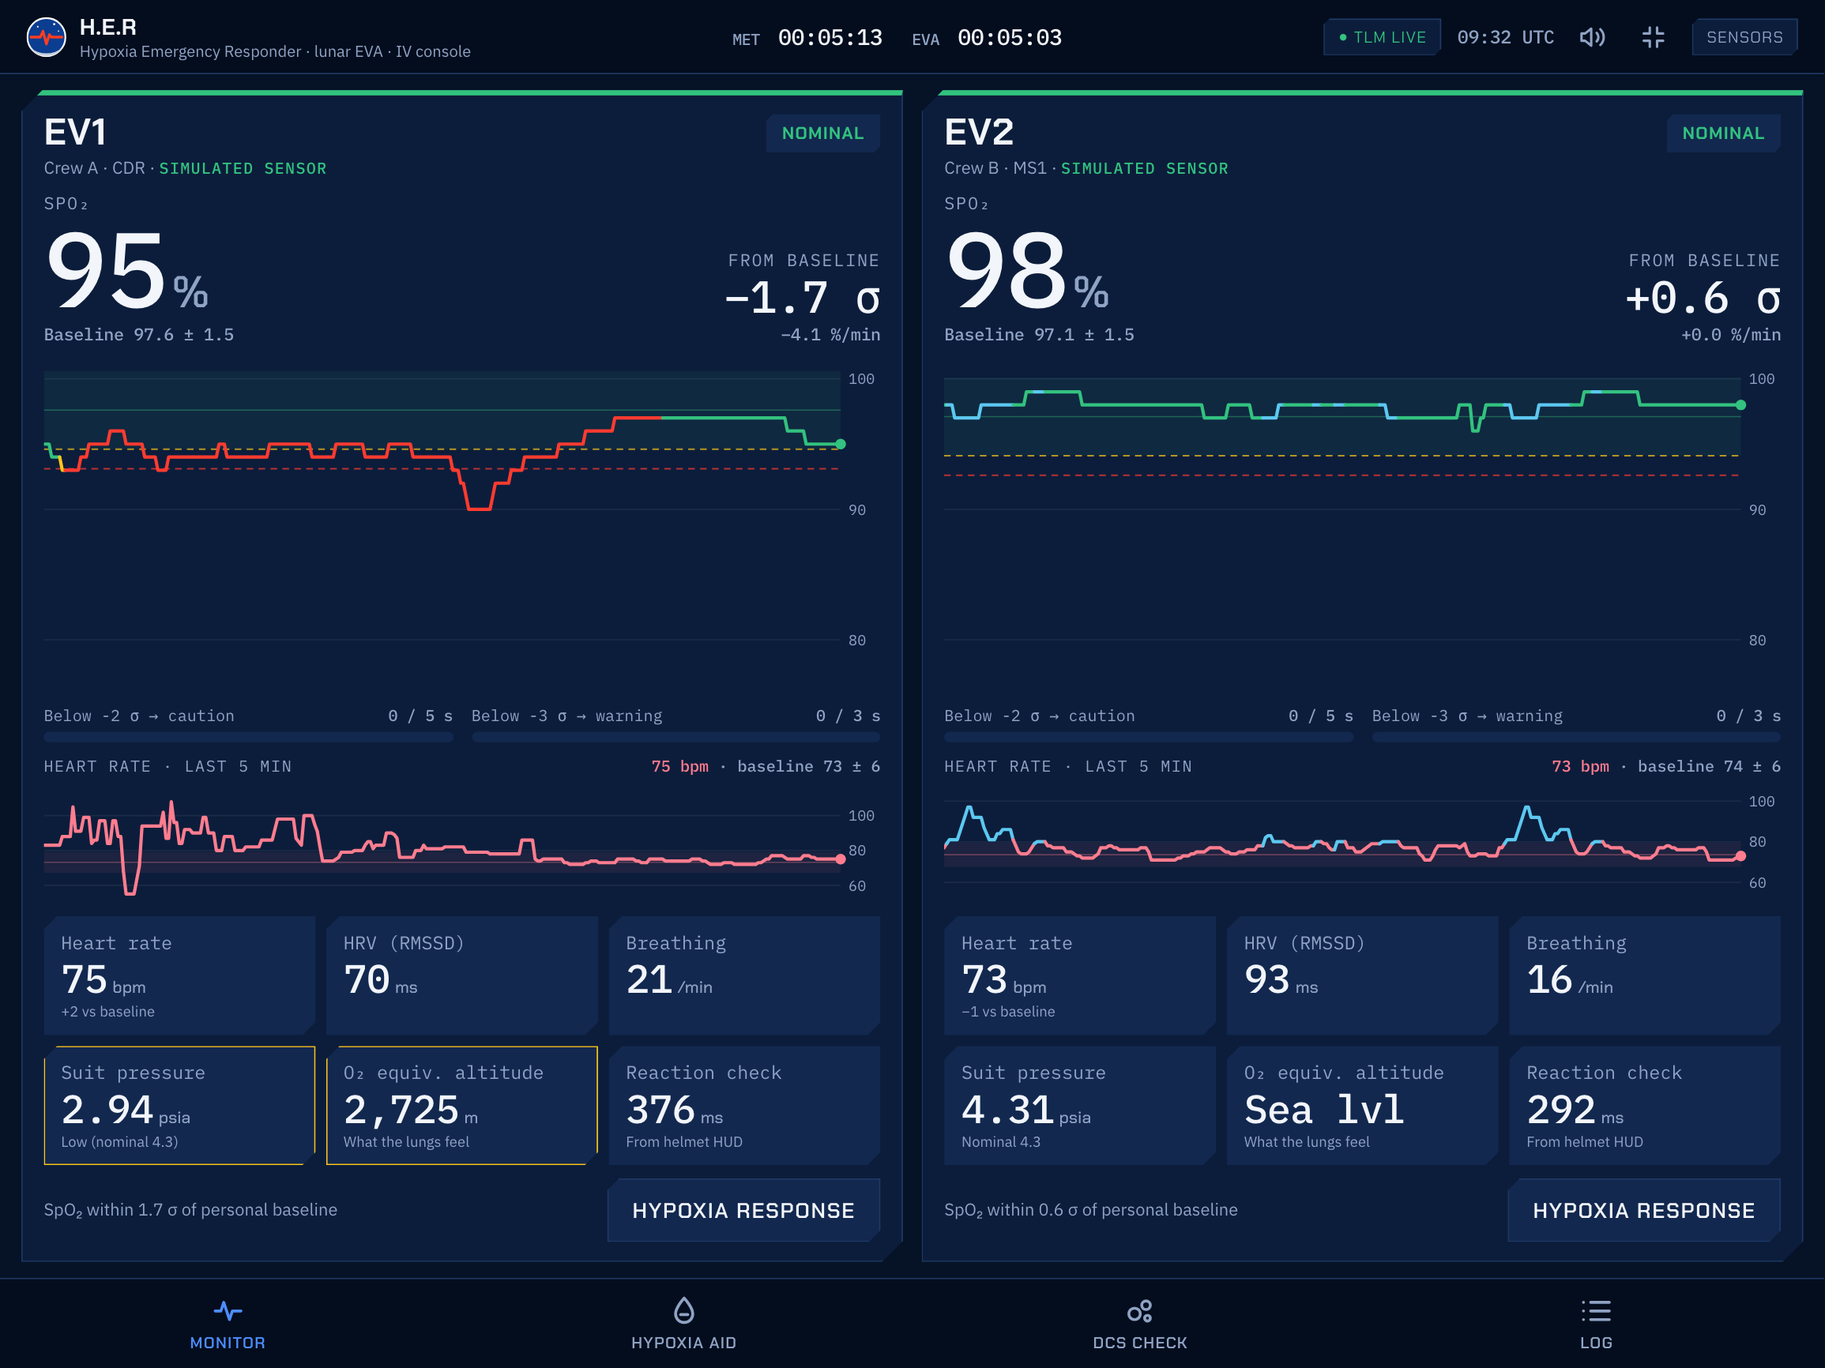
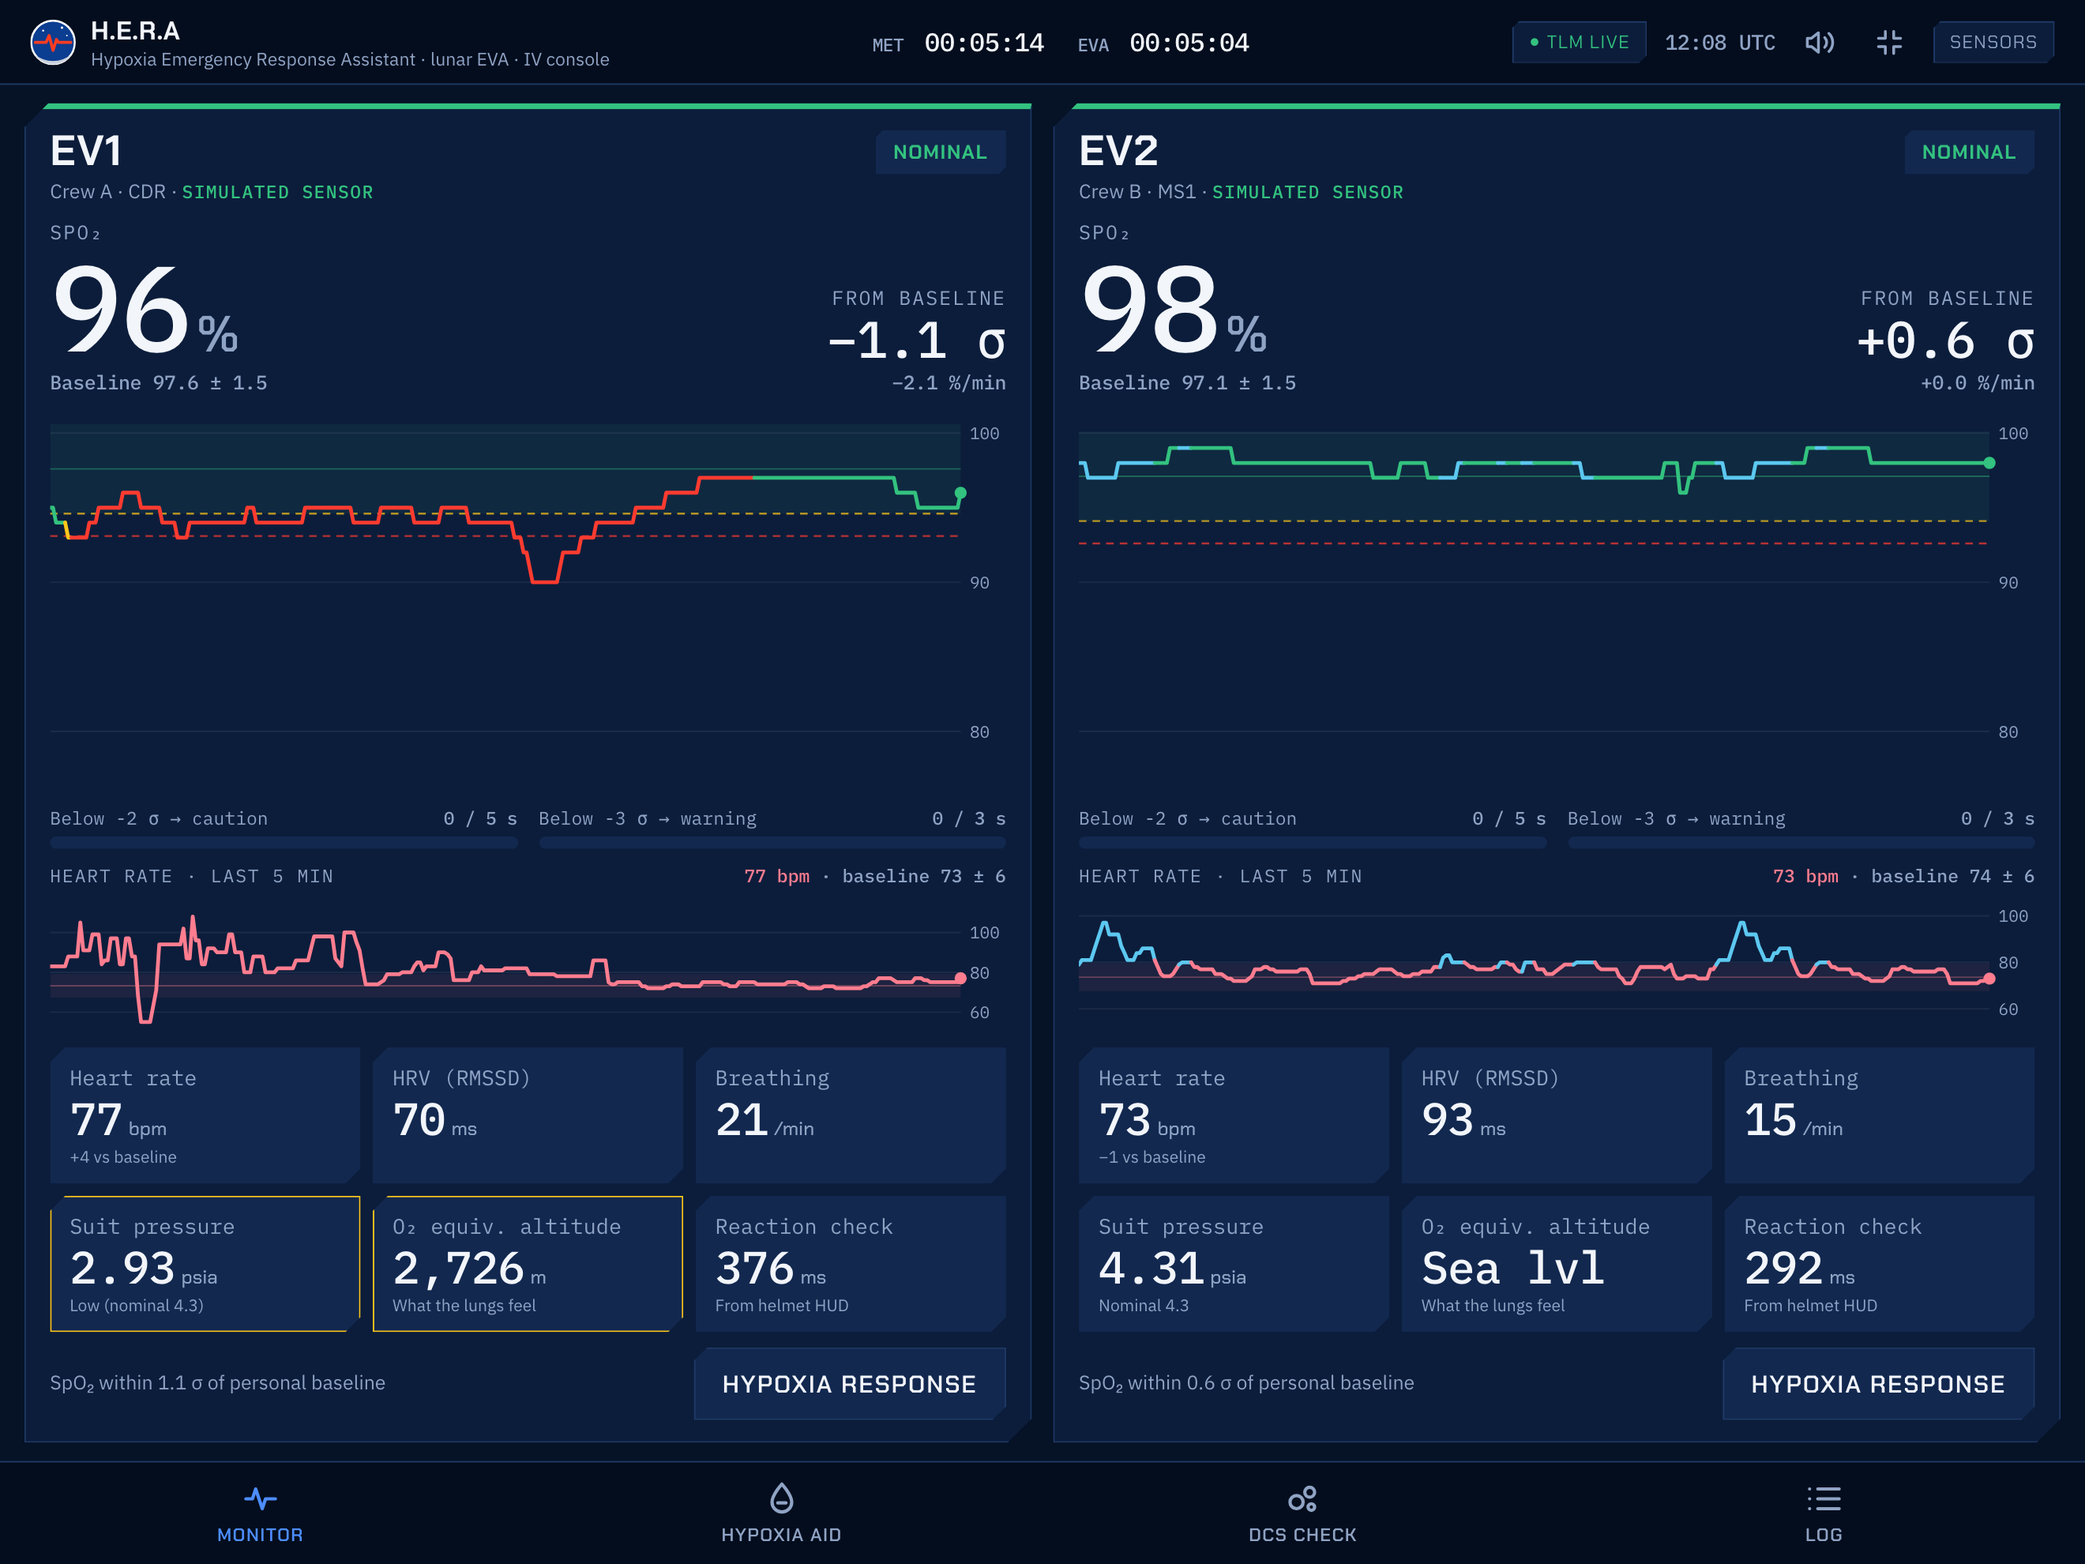
Milestones 3–4: live preview links to Aegis and H.E.R.A; rename H.E.R to H.E.R.A

diff --git a/content/site.ts b/content/site.ts
@@ -13,11 +13,11 @@ export type Spec = { label: string; value: string; unit?: string };
 // ---------- Site-wide ----------
 
 export const site = {
-  title: "H.E.R: Hypoxia Emergency Responder",
+  title: "H.E.R.A: Hypoxia Emergency Response Assistant",
   /** Visually hidden page heading */
-  heading: "H.E.R: Hypoxia Emergency Responder",
+  heading: "H.E.R.A: Hypoxia Emergency Response Assistant",
   description:
-    "H.E.R detects hypoxia during spacewalks: a behind-the-ear sensor, the Aegis helmet HUD and the H.E.R.A crew console alert the crew and guide first aid.",
+    "H.E.R.A: Hypoxia Emergency Response Assistant. A behind-the-ear sensor, the Aegis helmet HUD and the H.E.R.A crew console detect hypoxia during spacewalks, alert the crew and guide first aid.",
 };
 
 /** Small interface strings used across components */
@@ -143,9 +143,9 @@ export const productShowcase = {
       kind: "tablet",
       image: {
         src: "/images/hera-console.png",
-        width: 2310,
-        height: 1732,
-        alt: "iPad Pro showing the H.E.R crew console: live SpO₂ and heart-rate trends over the last five minutes for two spacewalkers",
+        width: 2640,
+        height: 1980,
+        alt: "iPad Pro showing the H.E.R.A crew console: live SpO₂ and heart-rate trends over the last five minutes for two spacewalkers",
       },
       device: {
         label: "THE ANCHOR",
@@ -154,7 +154,7 @@ export const productShowcase = {
       },
       anchor: {
         label: "THE APP",
-        title: "H.E.R crew console",
+        title: "H.E.R.A crew console",
         body: "Installs on iPad as a full-screen, offline app, with every incident and response saved to its log.",
         link: { label: "Launch the demo →", href: "https://crew-health-tablet.vercel.app" },
       },
@@ -269,15 +269,18 @@ export type Milestone = {
   /** null shows an ImageSlot named `slot` until the image exists */
   image: MilestoneImage | null;
   slot: string;
+  /** Live app: the image becomes a browser-window preview card linking to `url`, plus a "Launch <label> ↗" text link */
+  link?: { url: string; label: string };
 };
 
 /**
  * Milestones section below the product carousel. Entries alternate image-left / image-right.
  * To add an image: put it in public/images/, then set `image` (with `zoomable: true` for click-to-enlarge).
+ * With `link`, the image is shown as a preview card that opens the live app in a new tab.
  */
 export const milestones = {
   eyebrow: "MILESTONES",
-  title: "[PLACEHOLDER: section title, e.g. Building H.E.R]",
+  title: "[PLACEHOLDER: section title, e.g. Building H.E.R.A]",
   items: [
     {
       number: "01",
@@ -294,8 +297,34 @@ export const milestones = {
       },
     },
     { number: "02", title: "[PLACEHOLDER: Milestone 2 title]", caption: "[PLACEHOLDER: caption]", slot: "milestone-2.png", image: null },
-    { number: "03", title: "[PLACEHOLDER: Milestone 3 title]", caption: "[PLACEHOLDER: caption]", slot: "milestone-3.png", image: null },
-    { number: "04", title: "[PLACEHOLDER: Milestone 4 title]", caption: "[PLACEHOLDER: caption]", slot: "milestone-4.png", image: null },
+    {
+      number: "03",
+      title: "Aegis UI",
+      caption: "[PLACEHOLDER: 1–2 sentence caption about building the Aegis helmet HUD]",
+      slot: "milestone-3-aegis-preview.webp",
+      image: {
+        src: "/images/milestone-3-aegis-preview.webp",
+        width: 2880,
+        height: 1800,
+        alt: "Preview of the Aegis helmet HUD: vitals at the edges of view over a lunar landscape",
+        zoomable: false,
+      },
+      link: { url: "https://astronaut-eva-hud.vercel.app", label: "Aegis UI" },
+    },
+    {
+      number: "04",
+      title: "H.E.R.A UI",
+      caption: "[PLACEHOLDER: 1–2 sentence caption about building the H.E.R.A crew console]",
+      slot: "milestone-4-hera-preview.webp",
+      image: {
+        src: "/images/milestone-4-hera-preview.webp",
+        width: 2880,
+        height: 1800,
+        alt: "Preview of the H.E.R.A crew console: live SpO₂ and heart-rate trends for two spacewalkers",
+        zoomable: false,
+      },
+      link: { url: "https://crew-health-tablet.vercel.app", label: "H.E.R.A UI" },
+    },
   ] as Milestone[],
 };
 
@@ -308,4 +337,11 @@ export const lightbox = {
   escHint: "Esc to close",
   hintMouse: "Click to enlarge",
   hintTouch: "Tap to enlarge",
+};
+
+/** Strings for the live-app preview cards */
+export const linkPreview = {
+  chip: "Open live demo ↗",
+  ariaLabel: (label: string) => `Open the ${label} live demo (opens in a new tab)`,
+  launch: (label: string) => `Launch ${label} ↗`,
 };

diff --git a/components/LinkPreview.tsx b/components/LinkPreview.tsx
@@ -1,0 +1,50 @@
+import Image from "next/image";
+import { linkPreview, type MilestoneImage } from "@/content/site";
+import { CornerTicks } from "./CornerTicks";
+
+/**
+ * Live-app preview: the screenshot in a slim browser window (dots + address bar with the bare domain), the whole
+ * card one link that opens the app in a new tab. Hover/focus brightens the border, zooms the screenshot slightly and
+ * slides up an "Open live demo" chip (always shown on touch screens).
+ */
+export function LinkPreview({ image, url, label, sizes }: { image: MilestoneImage; url: string; label: string; sizes: string }) {
+  const domain = new URL(url).host;
+  return (
+    <a
+      href={url}
+      target="_blank"
+      rel="noopener noreferrer"
+      aria-label={linkPreview.ariaLabel(label)}
+      className="group relative block border border-gold bg-bg-alt transition-colors duration-200 hover:border-gold-bright focus-visible:border-gold-bright focus-visible:outline-2 focus-visible:outline-gold"
+    >
+      {/* Browser chrome */}
+      <span aria-hidden="true" className="flex items-center gap-3 border-b border-gold/40 px-5 py-2.5 sm:gap-4 sm:px-7">
+        <span className="flex gap-1.5">
+          {[0, 1, 2].map((i) => (
+            <span key={i} className="h-2 w-2 rounded-pill bg-ink-muted/40" />
+          ))}
+        </span>
+        <span className="min-w-0 flex-1 truncate rounded-pill bg-bg px-4 py-1 text-center font-eyebrow text-[0.6875rem] tracking-[0.06em] text-ink-muted">
+          {domain}
+        </span>
+        <span className="hidden w-9 sm:block" />
+      </span>
+
+      {/* Screenshot */}
+      <span className="relative block aspect-[16/10] overflow-hidden">
+        <Image
+          src={image.src}
+          alt={image.alt}
+          fill
+          sizes={sizes}
+          className="object-cover transition-transform duration-500 ease-out group-hover:scale-[1.03] group-focus-visible:scale-[1.03]"
+        />
+        <span className="absolute bottom-3 right-3 z-20 translate-y-2 bg-bg/85 px-2.5 py-1.5 font-eyebrow text-[0.6875rem] font-medium uppercase leading-none tracking-[0.18em] text-gold opacity-0 transition-[opacity,transform] duration-300 ease-out group-hover:translate-y-0 group-hover:opacity-100 group-focus-visible:translate-y-0 group-focus-visible:opacity-100 [@media(hover:none)]:translate-y-0 [@media(hover:none)]:opacity-100">
+          {linkPreview.chip}
+        </span>
+      </span>
+
+      <CornerTicks className="inset-1" />
+    </a>
+  );
+}

diff --git a/components/Milestones.tsx b/components/Milestones.tsx
@@ -1,7 +1,8 @@
-import { milestones } from "@/content/site";
+import { linkPreview, milestones } from "@/content/site";
 import { cn } from "@/lib/cn";
 import { ImageLightbox } from "./ImageLightbox";
 import { ImageSlot } from "./ImageSlot";
+import { LinkPreview } from "./LinkPreview";
 import { Reveal } from "./Reveal";
 import { Section, SectionHeading } from "./Section";
 
@@ -9,7 +10,8 @@ const SIZES = "(min-width: 768px) 58vw, 100vw";
 
 /**
  * Milestones: entries alternate image-left / image-right from md (image above text on mobile).
- * An image with `zoomable` opens in the click-to-enlarge overlay; entries without an image show an ImageSlot.
+ * An entry with `link` shows its image as a live-app preview card; an image with `zoomable` opens in the
+ * click-to-enlarge overlay; entries without an image show an ImageSlot.
  */
 export function Milestones() {
   return (
@@ -21,8 +23,10 @@ export function Milestones() {
           return (
             <Reveal key={m.number}>
               <article className="grid items-center gap-8 md:grid-cols-12 md:gap-12">
-                <div className={cn("md:col-span-7", reverse && "md:order-2")}>
-                  {m.image?.zoomable ? (
+                <div className={cn("min-w-0 md:col-span-7", reverse && "md:order-2")}>
+                  {m.image && m.link ? (
+                    <LinkPreview image={m.image} url={m.link.url} label={m.link.label} sizes={SIZES} />
+                  ) : m.image?.zoomable ? (
                     <ImageLightbox image={m.image} caption={`${m.number} · ${m.title}`} sizes={SIZES} />
                   ) : (
                     <ImageSlot
@@ -40,6 +44,11 @@ export function Milestones() {
                   <p className="mb-4 font-display text-small tabular-nums text-gold">{m.number}</p>
                   <h3 className="text-h3">{m.title}</h3>
                   <p className="mt-4 max-w-prose">{m.caption}</p>
+                  {m.link && (
+                    <a href={m.link.url} target="_blank" rel="noopener noreferrer" className="link-gold mt-6 inline-block">
+                      {linkPreview.launch(m.link.label)}
+                    </a>
+                  )}
                 </div>
               </article>
             </Reveal>

diff --git a/components/CornerTicks.tsx b/components/CornerTicks.tsx
@@ -1,10 +1,10 @@
 import { cn } from "@/lib/cn";
 
-/** Gold crop-mark ticks in the four corners of a card or image. Parent must be `relative`. */
+/** Gold crop-mark ticks in the four corners of a card or image. Parent must be `relative`. `className` replaces the default inset-2. */
 export function CornerTicks({ className }: { className?: string }) {
   const tick = "pointer-events-none absolute h-3 w-3 border-gold";
   return (
-    <span aria-hidden className={cn("pointer-events-none absolute inset-2 z-10", className)}>
+    <span aria-hidden className={cn("pointer-events-none absolute z-10", className ?? "inset-2")}>
       <span className={cn(tick, "left-0 top-0 border-l border-t")} />
       <span className={cn(tick, "right-0 top-0 border-r border-t")} />
       <span className={cn(tick, "bottom-0 left-0 border-b border-l")} />

diff --git a/components/InfoBox.tsx b/components/InfoBox.tsx
@@ -25,7 +25,7 @@ export function InfoBox({ content, className }: { content: InfoBoxContent; class
           href={content.link.href}
           target="_blank"
           rel="noopener noreferrer"
-          className="mt-4 inline-block whitespace-nowrap text-body text-gold underline decoration-gold/60 decoration-1 underline-offset-[6px] transition-colors duration-200 hover:text-gold-bright hover:decoration-gold-bright focus-visible:text-gold-bright"
+          className="link-gold mt-4 inline-block whitespace-nowrap text-body"
         >
           {content.link.label}
         </a>

diff --git a/app/globals.css b/app/globals.css
@@ -29,6 +29,10 @@
   .container-page {
     @apply mx-auto w-full max-w-page px-gutter;
   }
+  /* Gold text link with a hairline underline */
+  .link-gold {
+    @apply text-gold underline decoration-gold/60 decoration-1 underline-offset-[6px] transition-colors duration-200 hover:text-gold-bright hover:decoration-gold-bright focus-visible:text-gold-bright;
+  }
   /* Product carousel slide: grid areas per breakpoint (see components/ProductSlide.tsx).
      Callout labels sit in areas c1–c3; the leader-line side follows from where each label lands. */
   .showcase-grid {

diff --git a/tailwind.config.ts b/tailwind.config.ts
@@ -7,8 +7,8 @@ import type { Config } from "tailwindcss";
 const config: Config = {
   content: ["./app/**/*.{ts,tsx}", "./components/**/*.{ts,tsx}", "./content/**/*.ts"],
   theme: {
-    // Sharp: no rounded corners anywhere
-    borderRadius: { none: "0", DEFAULT: "0" },
+    // Sharp: no rounded corners anywhere, except the browser-chrome dots and address bar on live-app preview cards
+    borderRadius: { none: "0", DEFAULT: "0", pill: "9999px" },
     extend: {
       colors: {
         bg: "#0A0A0B", // main background (never pure black)

diff --git a/images-needed.md b/images-needed.md
@@ -7,12 +7,12 @@ Every image on the site. Slots without a file show a dark placeholder labelled w
 | Slot | Where | Size | What |
 |---|---|---|---|
 | `herb-hardware` ✅ | Product carousel, slide 1 "H.E.R.B" | 1240×1600 cut-out (done) | Transparent cut-out of the prototype hardware, made from `herb-hardware-raw.jpg` by `scripts/cutout_herb.py`. Replace both if the hardware changes, then re-check the callout dot positions. |
-| `hera-console.png` ✅ | Product carousel, slide 2 "H.E.R.A" | 2310×1732 (4:3) | Screenshot of the H.E.R crew console on the angled tablet. Captured from crew-health-tablet.vercel.app at 1155×866 @2×. Replace with any 4:3 capture, then re-check the dot positions. |
+| `hera-console.png` ✅ | Product carousel, slide 2 "H.E.R.A" | 2640×1980 (4:3) | Screenshot of the H.E.R.A crew console on the angled tablet. Captured from crew-health-tablet.vercel.app at 1320×990 @2×. Replace with any 4:3 capture, then re-check the dot positions. |
 | `aegis-hud.png` ✅ | Product carousel, slide 3 "Aegis" | 2310×1732 (4:3) | Capture of the live helmet HUD over the lunar landscape, shown inside the angled visor. Captured from astronaut-eva-hud.vercel.app at 1155×866 @2×. |
 | `milestone-1-schematic.jpg` ✅ | Milestones, entry 01 | 800×647 (KiCad export) | Circuit schematic of the custom PCB. Shown on an off-white panel and zoomable. A higher-resolution export (a larger PNG, or an SVG) would read better when zoomed: add it and set `fullSrc` on milestone 01 so the overlay loads it, or replace `src`, `width` and `height` outright. |
 | `milestone-2.png` | Milestones, entry 02 | 1200×900 | To be decided. Set `image` on milestone 02. |
-| `milestone-3.png` | Milestones, entry 03 | 1200×900 | To be decided. Set `image` on milestone 03. |
-| `milestone-4.png` | Milestones, entry 04 | 1200×900 | To be decided. Set `image` on milestone 04. |
+| `milestone-3-aegis-preview.webp` ✅ | Milestones, entry 03 (preview card) | 2880×1800 (16:10) | Capture of astronaut-eva-hud.vercel.app at 1440×900 @2×, 3 s after load. |
+| `milestone-4-hera-preview.webp` ✅ | Milestones, entry 04 (preview card) | 2880×1800 (16:10) | Capture of crew-health-tablet.vercel.app at 1440×900 @2×, 30 s after "Begin monitoring". |
 
 ## Also needed
 

diff --git a/README.md b/README.md
@@ -1,6 +1,6 @@
-# H.E.R site
+# H.E.R.A site
 
-A single-page site for H.E.R (Hypoxia Emergency Responder): a product carousel (H.E.R.B, H.E.R.A, Aegis) followed by a Milestones section. Built with Next.js (App Router), TypeScript, Tailwind CSS and Framer Motion, in a black-and-gold design system.
+A single-page site for H.E.R.A (Hypoxia Emergency Response Assistant): a product carousel (H.E.R.B, H.E.R.A, Aegis) followed by a Milestones section. Built with Next.js (App Router), TypeScript, Tailwind CSS and Framer Motion, in a black-and-gold design system.
 
 ## Run
 
@@ -25,6 +25,7 @@ components/
   ProductSlide       One product: visual, callouts with leader lines, Device / Anchor boxes
   Milestones         Alternating image/text entries
   ImageLightbox      Click-to-enlarge overlay with zoom and pan (any milestone image with zoomable: true)
+  LinkPreview        Browser-window preview card that opens a live app (any milestone with a link)
   InfoBox, ImageSlot, SpecTable, Section, Eyebrow, Hairline, Reveal, CornerTicks, MotionProvider
 content/site.ts      ALL copy and data, as typed objects
 lib/cn.ts            Class-name helper
@@ -43,7 +44,7 @@ tailwind.config.ts   Design tokens: colours, fonts, type scale, spacing
 
 - **Text and data:** everything is in `content/site.ts`. Search for `[PLACEHOLDER` to find what is still open.
 - **Carousel:** `productShowcase.products`. Add an entry to add a slide.
-- **Milestones:** `milestones.items`. To give an entry an image, put it in `public/images/` and set `image` (`src`, `width`, `height`, `alt`). Set `zoomable: true` to open it in the lightbox; `fullSrc` optionally points at a larger file (or SVG) that is loaded only when the overlay opens.
+- **Milestones:** `milestones.items`. To give an entry an image, put it in `public/images/` and set `image` (`src`, `width`, `height`, `alt`). Set `zoomable: true` to open it in the lightbox; `fullSrc` optionally points at a larger file (or SVG) that is loaded only when the overlay opens. Set `link` (`url`, `label`) instead to show the image as a preview card that opens the live app.
 
 ## Motion
 
